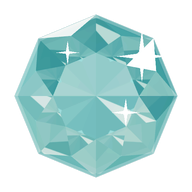
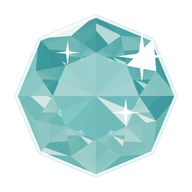
Front page: diamonds restored to the approved rendered version (31px, full rim, original contrast), line wrap kept
Claude-Session: https://claude.ai/code/session_01CgFvJhnZWk8YLXJYNhx8p9

Changed region(s): [[0.0625, 0.0625, 0.9375, 0.9375]]

diff --git a/red-look.css b/red-look.css
@@ -247,5 +247,5 @@ html.red:not(:has(#resultsWrap[style*="block"])) .hero-illustration{transform:tr
 /* ===== The four selling points: larger, bolder, each marked with a polished silver bead (the same chrome as the planets, lit from the upper right) ===== */
 html.red:not(:has(#resultsWrap[style*="block"])) .r-b22{gap:16px 12px}
 html.red:not(:has(#resultsWrap[style*="block"])) .r-b22 li{padding-left:32px;font-size:15.2px;line-height:1.22;font-weight:800;text-shadow:0 1px 1px rgba(0,40,52,.6)}
-html.red:not(:has(#resultsWrap[style*="block"])) .r-b22 li:before{top:-.15em;left:-2px;width:29px;height:29px;border-radius:0;transform:none;box-shadow:none;
+html.red:not(:has(#resultsWrap[style*="block"])) .r-b22 li:before{top:-.2em;left:-3px;width:31px;height:31px;border-radius:0;transform:none;box-shadow:none;
  background:url(diamond.png) no-repeat center/contain;filter:none}
